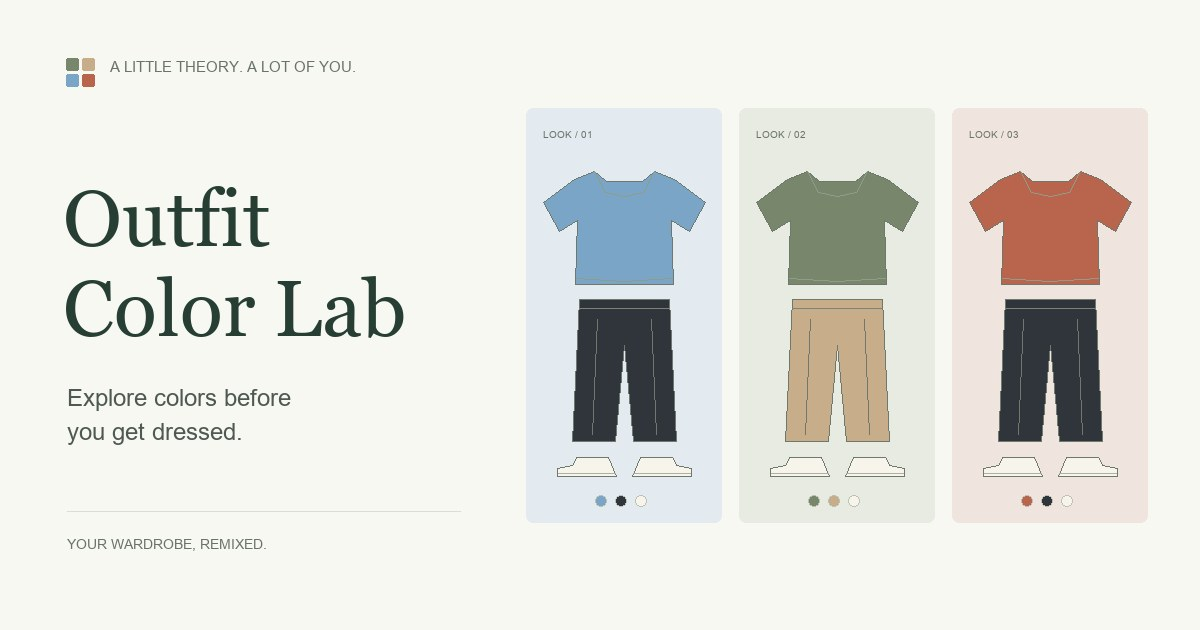
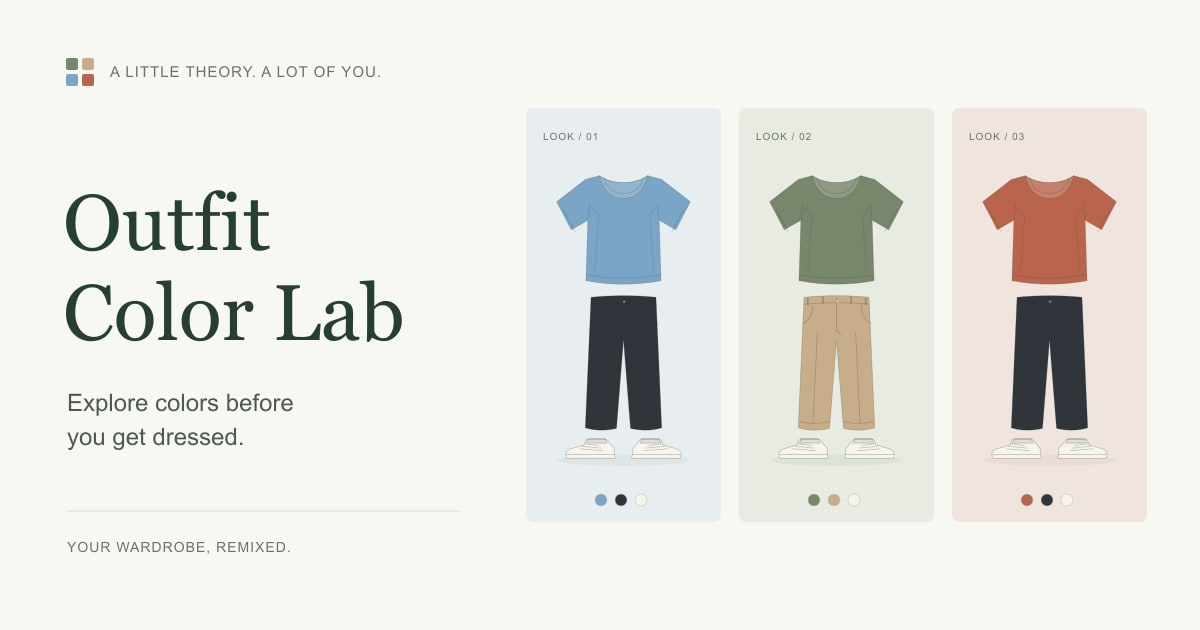
Refine mobile preview, preserve cover iteration and add verified coursework materials

diff --git a/style.css b/style.css
@@ -4,3 +4,5 @@
 @media(max-width:1100px){.container{width:calc(100% - 64px)}.nav-wrap{width:calc(100% - 48px)}#main-nav{gap:22px}.nav-cta{display:none}.hero{gap:40px}.hero-visual,.hero-photo{height:450px;min-height:450px}.hero h1{font-size:61px}.method-strip{grid-template-columns:1fr;gap:22px}.method-intro{display:flex;justify-content:space-between;gap:25px;align-items:center}.method-intro p{margin:0}.method-step p{max-width:none}.lab-layout{gap:30px}.annotation-top{right:18px}.annotation-trousers{left:15px}.annotation-shoes{right:12px}.preview-annotation:before{width:13px}.color-options{gap:15px 6px}.current-palette{padding:14px 12px}.current-palette-part{gap:5px}.current-palette-rows{gap:7px}.footer-top p{font-size:15px}.guide-row{gap:35px}}
 @media(max-width:760px){body{font-size:14px}.container{width:calc(100% - 40px)}.site-header{height:76px}.nav-wrap{width:calc(100% - 40px)}.brand{font-size:16px}.brand-caption{font-size:7px}.menu-toggle{display:flex;flex-direction:column;justify-content:center;gap:6px;width:42px;height:42px;padding:10px;border:1px solid var(--line);background:transparent;border-radius:4px}.menu-toggle span{height:1px;width:20px;background:var(--ink)}#main-nav{display:none;position:absolute;top:75px;left:0;right:0;height:auto;background:var(--paper);padding:15px 20px 20px;box-shadow:0 12px 15px #263e3410;border-bottom:1px solid var(--line)}#main-nav.is-open{display:flex;flex-direction:column;align-items:stretch;gap:0}#main-nav a{padding:13px 15px;font-size:13px}#main-nav a[aria-current]:after{bottom:21px;left:auto;right:17px}.hero{grid-template-columns:1fr;gap:28px;padding-top:35px;padding-bottom:30px}.hero-copy{padding:0}.hero h1{font-size:clamp(49px,8.6vw,64px);max-width:550px;letter-spacing:-2px}.hero .eyebrow{font-size:8px;margin-bottom:20px;letter-spacing:1.6px}.hero .hero-description{margin-top:19px;font-size:13px;max-width:470px;line-height:1.8}.hero .subtitle-cn{margin-top:9px;font-size:10px}.hero .actions{margin-top:23px;gap:21px}.hero .button{padding:12px 18px;gap:22px;font-size:11px}.hero .text-link{font-size:11px}.hero-footnote{margin-top:17px;font-size:9px}.hero-visual,.hero-photo{height:395px;min-height:395px}.image-label{left:17px;top:17px;font-size:8px}.hero-palette{left:17px;right:17px;bottom:17px;padding:14px 15px}.method-strip{padding:23px 22px;gap:23px}.method-intro{display:block}.method-intro p{margin-top:7px;font-size:25px}.method-intro .section-label{font-size:8px}.method-steps{grid-template-columns:1fr;gap:18px}.method-step{gap:15px}.method-step h3{font-size:12px}.method-step p{font-size:10px}.section{padding:45px 0}.section-heading{align-items:start;flex-direction:column;gap:15px;margin-bottom:22px}.section-heading .eyebrow{font-size:8px;margin-bottom:10px}.section-heading h2{font-size:35px}.look-grid{grid-template-columns:1fr;gap:30px}.look-art{height:330px}.look-art .outfit-svg{height:290px}.look-card h3{font-size:27px}.look-card .look-description{min-height:0}.swatch-strip{gap:15px}.swatch-strip>span{font-size:9px}.home-note{grid-template-columns:1fr;margin-bottom:40px}.home-note>img{height:220px}.home-note-copy{padding:29px 27px}.home-note-copy h2{font-size:33px}.site-footer{padding:29px 20px 20px}.footer-top{align-items:start;flex-direction:column;gap:18px}.footer-top p{font-size:18px}.footer-top .text-link{font-size:11px}.footer-bottom{flex-wrap:wrap;gap:10px;font-size:9px}.footer-bottom>span:nth-child(2){display:none}.footer-bottom .source-link{margin-left:auto}.page-intro{padding:31px 0 26px}.page-intro .eyebrow{font-size:8px;margin-bottom:14px}.page-intro h1{font-size:45px}.page-intro p{font-size:12px;margin-top:12px}.intro-row{display:block}.intro-row .right-note{display:none}.lab-layout{grid-template-columns:1fr;gap:10px;margin-bottom:12px}.preview-panel{min-height:420px;height:420px;padding:17px 20px}.preview-panel .outfit-svg{height:345px;width:207px;margin-top:4px}.preview-heading{font-size:8px;letter-spacing:1px}.preview-caption{font-size:8px;margin-top:3px}.annotation-top{top:125px;right:23px}.annotation-trousers{top:270px;left:17px}.annotation-shoes{bottom:72px;right:15px}.preview-annotation{font-size:8px;gap:5px}.preview-annotation:before{width:17px}.controls-panel{padding:15px 0 0}.control-section+.control-section{margin-top:23px;padding-top:22px}.control-title{font-size:13px}.part-tab{font-size:11px;padding:12px 5px;min-height:46px}.color-options{gap:20px 5px}.color-option{font-size:9px}.color-option .color-dot{width:38px;height:38px}.color-section-heading .current-color-label{font-size:9px}.custom-color{font-size:10px;margin-top:19px}.current-palette{padding:16px 15px}.current-palette-rows{gap:12px}.current-palette-part{font-size:9px;gap:7px}.current-palette-part strong{font-size:9px}.lab-action-row .button{min-height:46px}.lab-utilities{gap:23px}.utility-button{font-size:10px}.status-message{margin-top:8px;font-size:10px}.lab-notice{flex-direction:column;gap:9px;padding-bottom:24px;font-size:9px}.lab-notice p{font-size:9px}.preset-bar{padding:18px 20px;align-items:start;flex-direction:column;gap:13px;margin-bottom:35px}.gallery-filters{gap:7px;padding-bottom:18px}.filter-button{padding:7px 13px;font-size:10px}.gallery-count{flex-basis:100%;margin-top:6px}.gallery-grid{margin-bottom:35px}.gallery-grid .look-art{height:350px}.gallery-grid .outfit-svg{height:305px}.gallery-footer{flex-direction:column;align-items:start;padding:25px;margin-bottom:40px}.gallery-footer h2{font-size:30px}.guide-tip{padding:14px;font-size:10px;margin-bottom:18px}.guide-row{grid-template-columns:1fr;gap:23px;padding:28px 0}.guide-row h2{font-size:36px}.guide-number{margin-bottom:8px}.guide-row p{font-size:12px;line-height:1.8;margin-bottom:12px}.guide-row .subtitle-cn{font-size:10px;margin-bottom:12px}.guide-art{padding:20px 15px;min-height:260px;grid-template-columns:1.1fr 1fr}.guide-art .outfit-svg{height:240px}.guide-color-story{padding-left:10px}.story-color{gap:8px;font-size:9px}.story-color i{height:30px;width:30px;flex-shrink:0}.guide-art-caption{font-size:7px;letter-spacing:.7px}.guide-sources{font-size:9px;margin:10px 0 35px}.project-content table{font-size:10px}.project-content td,.project-content th{padding:7px}.project-content h2{font-size:27px}}
 @media(prefers-reduced-motion:reduce){html{scroll-behavior:auto}*,*:before,*:after{transition:none!important;animation:none!important}}
+.skip-link{top:12px;transform:translateY(-200%);opacity:0;pointer-events:none}.skip-link:focus{transform:translateY(0);opacity:1;pointer-events:auto}
+#outfit-preview{margin:auto 0}.annotation-top{top:27%}.annotation-trousers{top:61%}.annotation-shoes{bottom:15%}

diff --git a/docs/SUBMISSION.md b/docs/SUBMISSION.md
@@ -1,0 +1,55 @@
+# Course submission / 课程提交材料
+
+## Five text fields
+
+**Title (3 words)**
+
+Outfit Color Lab
+
+**One sentence (14 words)**
+
+A simple color tool that helps students plan outfits using clothes they already own.
+
+**Description (4 paragraphs)**
+
+Outfit Color Lab is an interactive website for exploring everyday clothing colors. Visitors can change the colors of a top, trousers and shoes independently, compare combinations and start again. Its purpose is to make outfit planning approachable through quick visual experiments.
+
+The website is designed for university students who are unsure how to combine clothes they already own. It focuses on color rather than brands, shopping, sizing or body shape. All examples are starting points for personal exploration, rather than claims about a universally correct outfit.
+
+The four main pages have distinct roles. Home introduces the website and its three-step process. Color Guide explains neutral combinations, tonal dressing and an accent color. Color Lab provides the interactive tool. Outfit Gallery contains six editable presets with category filters. A supplementary project page records the planning process.
+
+The implementation uses semantic HTML, responsive CSS and JavaScript modules. A JavaScript object holds the three garment colors, and the interface updates original SVG illustrations, labels and selected swatches together. URL parameters load and share palettes. The site needs no account or database, credits its external photographs and includes course-size icons and a share cover.
+
+**Public HTTPS website**
+
+https://chengdianjiang0705-dotcom.github.io/web-project/
+
+**Public source repository**
+
+https://github.com/chengdianjiang0705-dotcom/web-project
+
+## Four images to upload
+
+| Required image | Repository path | Specification |
+| --- | --- | --- |
+| Open Graph cover | `images/og-image.jpg` | 1200 × 630 JPEG, below 100 KB |
+| Favicon | `favicon-32.png` | 32 × 32 PNG |
+| Desktop screenshot | `docs/screenshots/desktop-home.png` | 1440 px wide, no browser bars |
+| Phone screenshot | `docs/screenshots/mobile-home.png` | 390 px wide, no browser bars |
+
+Additional lab, guide and gallery screenshots are in `docs/screenshots/`. `apple-touch-icon.png` is 180 × 180 and is linked on every page. `icon-512.png` preserves the original square design.
+
+## Process evidence and limits
+
+- Planning and five project ideas: `project.html`.
+- Actual development decisions: `docs/PROCESS.md`.
+- Original artwork: `outfit.js`, `favicon.svg`, `scripts/make_assets.py` and `scripts/make-cover.mjs`.
+- Attributions: `docs/SOURCES.md` and every page's footer.
+- Tests and device widths: `docs/TESTING.md`, `tests/outfit.test.mjs` and `scripts/browser-qa.mjs`.
+- Actual commit sequence: the GitHub repository's commit history.
+- Development in this session began on 15 October 2026, Asia/Shanghai. These commits do not establish a multi-week development history. Keep making real commits as you review and improve the project during the course.
+- Course platform submission needs the student's own access; the website repository and materials are prepared here, but no course platform submission has been made.
+
+## Before the defence
+
+Read `docs/DEFENCE.md`, understand the state updates in `lab.js`, and review the English copy. Keep `npm run dev` available as the local backup. Verify the submitted public URLs from a signed-out browser.

diff --git a/docs/DEFENCE.md b/docs/DEFENCE.md
@@ -1,0 +1,65 @@
+# Five-minute defence / 五分钟答辩
+
+Use the live website, without presentation slides. The first three minutes demonstrate the project; the remaining two minutes are for questions.
+
+## Three-minute demonstration
+
+**0:00–0:25 · Purpose**
+
+“My project is Outfit Color Lab. It helps university students try clothing colors using pieces they already own.”
+
+说明目标用户、用途。打开 Color Lab，先展示核心功能。
+
+**0:25–1:15 · Main task**
+
+Select Top and choose Olive. Select Trousers and choose Beige. Select Shoes and choose Off-white. Show that the other two pieces keep their colors. Point to the current palette and named swatches.
+
+“I store the colors in a JavaScript object. When the user selects a color, I update the chosen part, the SVG and the text together.”
+
+**1:15–1:45 · Explore**
+
+Press Surprise me and explain that it tries a random combination. Press Start fresh. Open Outfit Gallery, choose Blues, then try Blue Hour. Show that the lab loads the exact preset.
+
+“The preset ID travels in the URL. This lets the gallery link directly to a combination without a database.”
+
+**1:45–2:20 · Supporting pages**
+
+Open Color Guide and briefly explain the three starting points. Use a Try this combination link. Return Home and show that all four pages are connected through the shared navigation.
+
+**2:20–3:00 · Mobile and decisions**
+
+Show the 390 px screenshot or use DevTools responsive mode. Demonstrate the mobile navigation menu. Show the repository's actual commits and credited sources if time allows.
+
+“I chose simple SVG illustrations so users can focus on color. On a phone, the preview sits above the controls. Each swatch has a name, so the controls do not rely only on color.”
+
+## Questions to prepare
+
+**Why use a button instead of a link?**
+
+“A button performs an action, like recoloring a garment. A link takes the visitor to another page.”
+
+**How does changing color work?**
+
+`selectedPart` identifies the garment. `outfit[selectedPart] = hex` updates the state. `render()` sets the SVG's `--top`, `--trousers` and `--shoes` CSS variables and updates the labels and `aria-pressed` states.
+
+**Why no account or database?**
+
+“The main task only needs temporary state. The course also limits features that depend on stored accounts or orders.”
+
+**What are the limits?**
+
+“The colors are illustrative. Fabric, material and lighting affect real clothes. This tool does not perform virtual fitting or determine a best color for everybody.”
+
+**What would you improve?**
+
+“I would add an optional comparison view after observing how students compare two palettes. I would keep the basic editor simple.”
+
+**Did you use AI?**
+
+“Yes. AI assisted with code, draft copy, original vector artwork and testing. I reviewed the implementation and can explain how it works.”
+
+Use this last sentence only after you actually review and understand the implementation. Be candid about assistance and the actual dates of the commit history.
+
+## Local backup
+
+Run `npm run dev` from the repository and open http://127.0.0.1:4173. All website images are local and no font service is required. This backup does not replace the public site.

diff --git a/README.md b/README.md
@@ -1,6 +1,11 @@
-# Outfit Color Lab · 穿搭配色实验室
+# web-project / Outfit Color Lab · 穿搭配色实验室
 
 A simple color tool that helps students plan outfits using clothes they already own.
+
+- Public website: https://chengdianjiang0705-dotcom.github.io/web-project/
+- Repository: https://github.com/chengdianjiang0705-dotcom/web-project
+
+![Website screenshot](docs/screenshots/desktop-home.png)
 
 ## Run locally
 
@@ -23,6 +28,20 @@ Open http://127.0.0.1:4173. Build a portable static site with `npm run build`.
 | `project.html` | Record the coursework planning and real development process. |
 
 See `docs/PROCESS.md` for actual development milestones, `docs/SOURCES.md` for attribution, and `docs/SUBMISSION.md` for course submission material.
+
+## Verify and publish
+
+```sh
+npm run check
+npm test
+npm run build
+```
+
+Pushing `main` triggers `.github/workflows/pages.yml`: static validation, state tests, metadata configuration, build and GitHub Pages deployment. No repository secrets are required. All site files use relative URLs so GitHub's `/web-project/` path works.
+
+Browser QA and desktop/mobile screenshots are recorded in `docs/TESTING.md`. To repeat browser QA, provide an installed Playwright module and Chromium browser (see `scripts/browser-qa.mjs`), then run it with `--serve`. The website itself has no third-party runtime dependencies.
+
+Course materials: [`docs/SUBMISSION.md`](docs/SUBMISSION.md), [`docs/DEFENCE.md`](docs/DEFENCE.md), and [`project.html`](project.html). The early cover is preserved at `docs/design/cover-v1.jpg`; the final cover reuses the same original garments as the website.
 
 ## Development transparency
 

diff --git a/docs/TESTING.md b/docs/TESTING.md
@@ -1,0 +1,23 @@
+# Browser verification
+
+Date: 15 October 2026 (Asia/Shanghai).
+
+URL tested: http://127.0.0.1:4173
+
+Browser: 155.0.4283.45 (headless Chromium / Microsoft Edge).
+
+- PASS: All three garments independently change color and keep other parts unchanged.
+- PASS: All ten named colors update the illustration and selected swatch.
+- PASS: Custom colors, randomization and reset keep preview and text in sync.
+- PASS: Garment selection works with the keyboard.
+- PASS: Copy palette, share URL and SVG download work.
+- PASS: Every one of the six gallery links loads the correct preset across pages.
+- PASS: Malformed URLs fall back safely and shared custom palettes round-trip.
+- PASS: All gallery filters show the expected look counts.
+- PASS: All five pages have no horizontal overflow or broken images at 375, 390, 414, 768 and 1440 px.
+- PASS: Mobile menu navigation and lab recoloring work at 390 px; screenshots captured without browser chrome.
+- PASS: No JavaScript page errors or failed local asset requests.
+
+Desktop screenshots: 1440 px wide. Mobile screenshots: 390 px wide.
+
+All functional checks passed. Visual screenshots must also be inspected before delivery.
